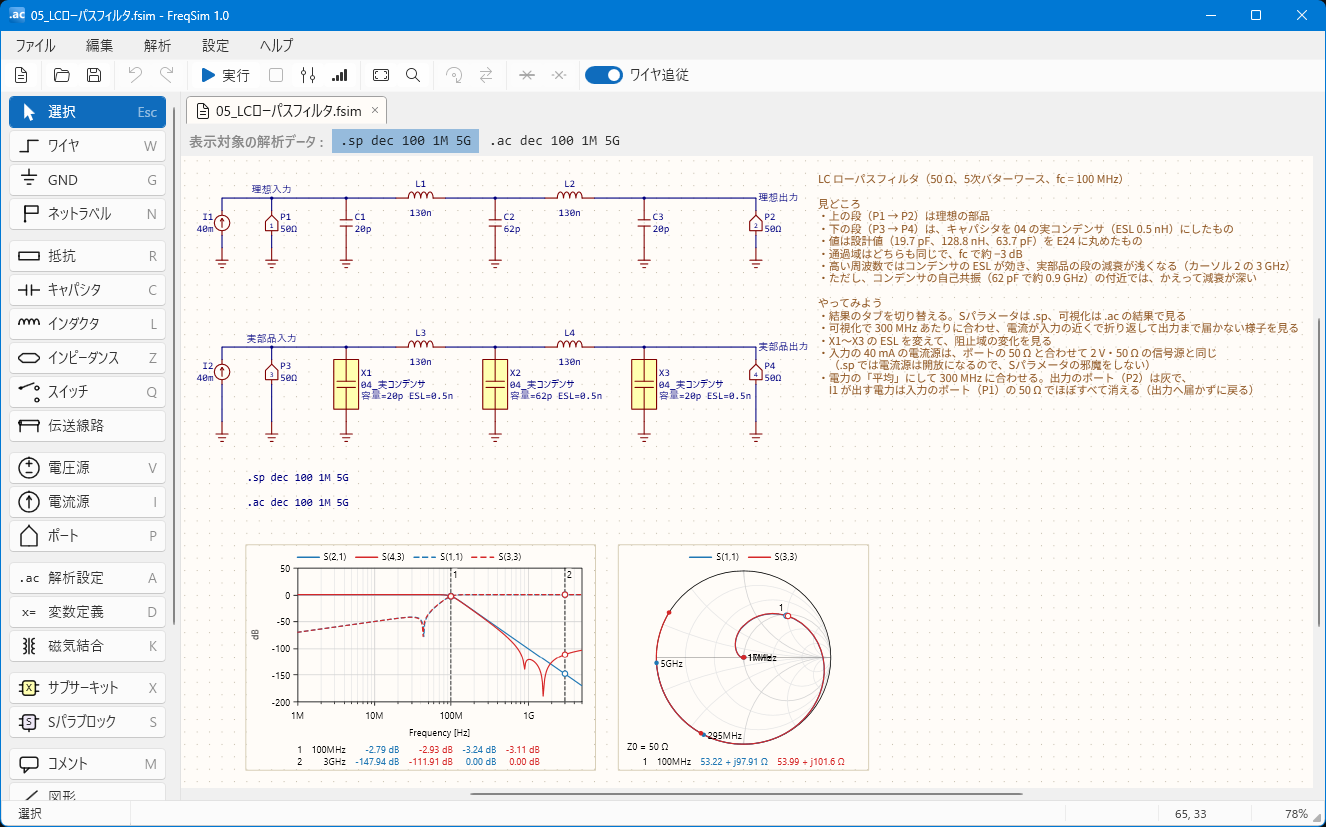
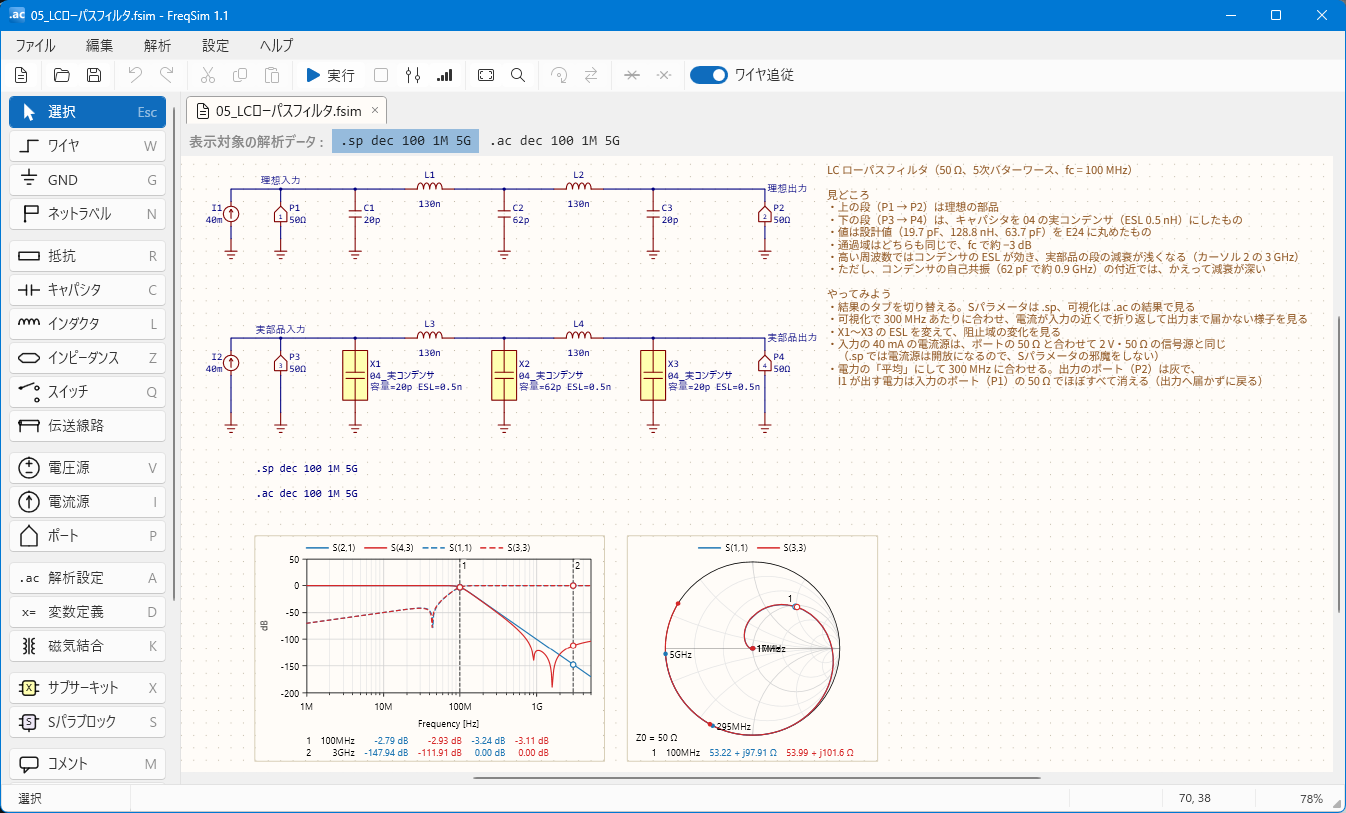
FreqSim 1.1 に合わせてヘルプ・スクリーンショット・特長を更新
- ヘルプを 1.1 版に差し替え
- スクリーンショットを 1.1 で撮り直したものに差し替え
- 配布ページの「特長」にパラメータスイープ（.step）を追加

diff --git a/software/freqsim/help/index.html b/software/freqsim/help/index.html
@@ -451,8 +451,8 @@
           <rect class="fig-pane" x="120.5" y="56.5" width="599" height="28" />
           <text x="132" y="71">文書タブ</text>
           <rect class="fig-optional" x="124" y="88" width="432" height="22" />
-          <text x="134" y="99">表示対象の解析データ</text>
-          <text class="fig-small" x="286" y="99">結果が2つ以上のときだけ</text>
+          <text x="134" y="99">表示対象の解析データ・ステップ</text>
+          <text class="fig-small" x="358" y="99">結果が2つ以上か .step のときだけ</text>
           <rect class="fig-optional" x="124" y="114" width="432" height="30" />
           <text x="134" y="129">可視化バー</text>
           <text class="fig-small" x="214" y="129">可視化の間だけ</text>
@@ -483,14 +483,14 @@
           <tr><td>メニューとツールバー</td><td>ファイル・編集・解析・設定・ヘルプ。ツールバーの各ボタンは、マウスを載せるとの説明が表示されます。</td></tr>
           <tr><td>部品パレット</td><td>置く部品を選びます。右端の英字はショートカットキーです。伝送線路と図形は、押してから種類を選びます。</td></tr>
           <tr><td>文書タブ</td><td>開いている回路図。未保存なら名前の先頭に * が付きます。ドラッグで並べ替えられます。</td></tr>
-          <tr><td>表示対象の解析データ</td><td><code>.ac</code>か<code>.sp</code>による解析の結果が2つ以上あるときだけ出ます。グラフ・書き出し・可視化に使う結果を選びます。</td></tr>
+          <tr><td>表示対象の解析データ</td><td><code>.ac</code>か<code>.sp</code>による解析の結果が2つ以上あるときだけ出ます。グラフ・書き出し・可視化に使う結果を選びます。<code>.step</code> で振った結果では、隣に今のステップを選ぶ欄と「凡例に表示」が出ます（<a href="#step">パラメータスイープ</a>）。</td></tr>
           <tr><td>回路図</td><td>部品とグラフを置く部分です。</td></tr>
           <tr><td>スクロールバー</td><td>回路図の右と下にあります。つまみの位置と大きさで、回路図全体のどこをどれだけ見ているかが分かります。つまみをドラッグするか、矢印や溝をクリックすると、表示範囲が動きます。回路図の端から画面の半分まで、外側へも送れます。バーの上でホイールを回すと、そのバーの向きに動きます。何も置いていない回路図では動きません。</td></tr>
           <tr><td>検索バー</td><td><kbd>Ctrl</kbd>+<kbd>F</kbd> で回路図の隅（最初は右上）に重ねて出ます（<a href="#search">回路図の検索</a>）。</td></tr>
           <tr><td>可視化バー</td><td>回路の可視化をしている間だけ出ます（<a href="#visualization">回路の可視化</a>）。</td></tr>
           <tr><td>端子ペイン</td><td>サブサーキット回路図のときだけ出ます。端子の順序と辺、パラメータ、使う側の箱の見た目（シンボルの図形・端子名）を決めます（<a href="#subcircuits">サブサーキット</a>）。</td></tr>
           <tr><td>診断</td><td>エラーと警告があるときだけ出ます。行をダブルクリックすると、該当する部品へ移動します（<a href="#diagnostics">診断</a>）。</td></tr>
-          <tr><td>ステータスバー</td><td>今のツール、メッセージ、「結果が古い（再実行してください）」、マウスの下にある要素、グリッド座標、表示の倍率。</td></tr>
+          <tr><td>ステータスバー</td><td>今のツール、メッセージ、「結果が古い（再実行してください）」、マウスの下にある要素、グリッド座標、表示の倍率。倍率をクリックすると、数で打ち込めます（例: <code>150</code>）。<kbd>Enter</kbd> で確定、<kbd>Esc</kbd> で取り消しです。画面の中央を中心に拡大縮小します。打ちかけのまま回路図をクリックしたときは、クリックした所を中心にします。12.5%〜800% の外は範囲に丸めます。</td></tr>
         </tbody>
       </table>
 
@@ -510,7 +510,7 @@
           <tr><td>ダブルクリック</td><td>部品はプロパティ、ワイヤはそのノードのネットラベル（<a href="#wire-label">ワイヤからノードに名前を付ける</a>）、解析設定と変数定義は設定のウィンドウ、グラフは「グラフ設定」を開きます。</td></tr>
           <tr><td>右クリック</td><td>メニュー。部品などを置いている途中なら、それを取り消します（下を参照）。</td></tr>
           <tr><td>右ドラッグ、中ボタンのドラッグ</td><td>表示範囲を移動します。</td></tr>
-          <tr><td>ホイール</td><td>マウスの下を中心に拡大縮小（12.5%〜800%）。グラフの上でも回路図全体が拡大縮小します。スクロールバーの上では、そのバーの向きに表示を動かします。</td></tr>
+          <tr><td>ホイール</td><td>マウスの下を中心に拡大縮小（12.5%〜800%）。倍率を数で指定するには、ステータスバーの倍率をクリックします。グラフの上でも回路図全体が拡大縮小します。スクロールバーの上では、そのバーの向きに表示を動かします。</td></tr>
           <tr><td>横ホイール</td><td>表示を左右に動かします（チルトホイール・親指ホイール）。</td></tr>
           <tr><td>図形などのつまみのドラッグ</td><td>グラフや図形の大きさを変えます。</td></tr>
           <tr><td>ドラッグ中に回路図の端へ</td><td>移動・複製・範囲選択・つまみのドラッグで、マウスを回路図の端まで持っていくと、表示範囲がその向きへ動き続けます。端から外へ離すほど速くなり、内側へ戻すと止まります。</td></tr>
@@ -1051,6 +1051,7 @@
           <tr><td><code>.sp</code></td><td><code>.sp dec 100 1M 1G</code></td><td>Sパラメータ解析。書き方は <code>.ac</code> と同じ。回路図にポートが1つ以上要る。後ろに <code>bal(1,2)</code> などでポートの割り当てを書ける（<a href="#mixed-mode">ミックスドモードSパラメータ</a>）</td></tr>
           <tr><td><code>.param</code></td><td><code>.param Lp=1u Cp={1/((2*pi*10.7M)^2*Lp)}</code></td><td>変数。式も書ける</td></tr>
           <tr><td><code>.tune</code></td><td><code>.tune Rload=50</code></td><td>チューニングで動かす変数（<a href="#tuning">チューニング</a>）</td></tr>
+          <tr><td><code>.step</code></td><td><code>.step Rload list 25 50 100</code></td><td>パラメータスイープ。<code>.tune</code> の変数を振って、有効な解析を全部繰り返す（<a href="#step">パラメータスイープ</a>）</td></tr>
         </tbody>
       </table>
 
@@ -1082,12 +1083,12 @@
         <li>
           <code>.tune</code> の値は実数の定数です。複素数をチューニング対象にしたいときは、実部と虚部や、絶対値と位相を別々に定義して、<code>.param</code> で組み合わせます（<code>.tune XRe=10 XIm=5</code> と <code>.param X={XRe+j*XIm}</code>）。
         </li>
-        <li>サブサーキット回路図には <code>.param</code> だけが書けます（<code>.ac</code>・<code>.sp</code>・<code>.tune</code> は書けません）。</li>
+        <li>サブサーキット回路図には <code>.param</code> だけが書けます（<code>.ac</code>・<code>.sp</code>・<code>.tune</code>・<code>.step</code> は書けません）。</li>
       </ul>
 
       <h3 id="directive-dialog">ディレクティブの設定ウィンドウ</h3>
       <ul>
-        <li>タブは「解析設定」と「変数定義」があります。</li>
+        <li>タブは「解析設定」「変数定義」「パラメータスイープ」があります（<a href="#step">パラメータスイープ</a>）。</li>
         <li>「有効」を OFF にすると、その解析設定・変数定義は解析に使われません。ディレクティブ本文の先頭に <code>*</code> を付けるのと同じです。</li>
         <li><code>;</code> から行末まではコメントとして扱いますが、フォームを触って本文が組み直されると、そのコメントは消えます。</li>
         <li>
@@ -1101,13 +1102,53 @@
       <h3 id="running">解析の実行</h3>
       <ul>
         <li><kbd>F5</kbd>、ツールバーの「実行」、「解析」→「実行」で解析します。実行中にもう一度 <kbd>F5</kbd> を押すと中止します。</li>
-        <li>有効な解析設定をすべて実行します。結果が2つ以上あるときは、画面上部の「表示対象の解析データ」で切り替えできます（解析設定のディレクティブが表示されます）。</li>
+        <li>
+          有効な解析設定をすべて実行します。結果が2つ以上あるときは、画面上部の「表示対象の解析データ」で切り替えできます（解析設定のディレクティブが表示されます）。
+          <code>.step</code> があるときは、その隣に今のステップを選ぶ欄が出ます（<a href="#step">パラメータスイープ</a>）。
+        </li>
         <li>
           実行した後に、部品・ワイヤ・ディレクティブを変えると（接続を変えずに位置を動かしただけでも）、ステータスバーに「結果が古い（再実行してください）」と出ます。
           参照しているファイルが書き換わったときも出ます。グラフ・コメント・図形を変えても出ません。
         </li>
         <li>サブサーキット回路図は、それだけでは解析できません（動作テスト用の回路を<a href="#testbench">テストベンチ</a>で作れます）。</li>
         <li>解析結果のデータ量が大きくなりそうなとき（目安 256 MiB）は、実行する前に確認します。1 GiB を超える可能性のある解析は実行しません。</li>
+      </ul>
+
+      <h3 id="step">パラメータスイープ</h3>
+      <p>
+        <code>.tune</code> で宣言した変数の値を変えながら、有効な解析（<code>.ac</code>・<code>.sp</code>）を全部繰り返し、結果をグラフに重ねて描きます。
+        設定ウィンドウの「パラメータスイープ」タブで、振る変数と値を選びます。
+      </p>
+      <table>
+        <thead>
+          <tr><th>例</th><th>意味</th></tr>
+        </thead>
+        <tbody>
+          <tr><td><code>.step Rload list 25 50 100</code></td><td>Rload を 25・50・100 にして3回解く</td></tr>
+          <tr><td><code>.step Rload lin 5 10 50</code></td><td>10〜50 を、全体で 5 個（10, 20, 30, 40, 50）</td></tr>
+          <tr><td><code>.step Cp dec 3 1n 100n</code></td><td>1n〜100n を、10 倍ごとに 3 個（全部で 7 個）</td></tr>
+        </tbody>
+      </table>
+      <ul>
+        <li>点数の意味と数値の書き方は <a href="#sweep">周波数の指定</a>と同じです。式や変数は使えません。</li>
+        <li>振れるのは <code>.tune</code> の変数だけです。素子の値を振るときは、素子を右クリック →「チューニング対象にする」で <code>.tune</code> の変数にしてから振ります。</li>
+        <li>値は小さい順に並べ替えて解きます。同じ値が2つあるとエラーです。<code>lin</code> と <code>list</code> は 0 や負の値も振れます。<code>dec</code> と <code>oct</code> は正の値だけで、終了は開始より大きくします。</li>
+        <li>有効な <code>.step</code> は1つまで、ステップは 20 個までです。振る変数が回路のどこからも使われていないと、警告が出ます（どのステップも同じ結果になります）。</li>
+        <li>
+          グラフには、トレースごとにステップの数だけ曲線が描かれます。今のステップはトレースの色で、ほかのステップは淡い色で描きます。
+          凡例の下に値の行が出ます（今のステップの値は太字です）。値の行は、ステップの欄の隣の「凡例に表示」をOFFにすると消えます（画像の書き出しにも効き、次に起動したときも使われます）。
+          軸の自動の範囲は全ステップの曲線から決めます。
+        </li>
+        <li>
+          今のステップは、「表示対象の解析データ」の隣の欄で選びます。▲▼ のボタンか <kbd>PageUp</kbd>（大きい値へ）/ <kbd>PageDown</kbd>（小さい値へ）で送れます。
+          結果タブを切り替えても、選んだステップはそのままです。解析し直しても、同じ値のステップがあれば選んだままです。
+        </li>
+        <li>カーソルの表・回路の可視化・スイッチのレバーは、今のステップの結果です。カーソルの表では、周波数の右に今のステップ（<code>Rload=50</code> など）が出ます。</li>
+        <li>チューニングでは、振っている変数のつまみは止まります。ほかのつまみを動かすと、全ステップを解き直します。</li>
+        <li>グラフの CSV・画像は全ステップを書き出します。CSV の列名は <code>V(out) [Rload=50]</code> の形です。生データの CSV と Touchstone は今のステップだけを書き出し、既定のファイル名にステップの番号（値の小さい順）と名前を添えます（<code>回路_raw_2_Rload=50.csv</code>）。名前で並べるとステップの順に並びます。</li>
+        <li>解析中の診断（周波数点で解けなかったなど）は、ステップをまたいで1件にまとめ、「Rload=25 など3ステップ」のように添えます。</li>
+        <li>配色が「モノクロ」のときは、淡い曲線がほかのトレースの濃さと紛れることがあります。トレースを線種で見分けてください。</li>
+        <li>FreqSim 1.0.2 以前では、<code>.step</code> のある回路図は開けますが解析できません。<code>.step</code> を無効（先頭に <code>*</code>）にすると解析できます。</li>
       </ul>
 
       <h3 id="frequency-range">外部データの周波数範囲</h3>
@@ -1323,7 +1364,8 @@
       <ul>
         <li>
           抵抗・キャパシタ・インダクタ・インピーダンスの正極は、置いたときの左端です。<kbd>Ctrl</kbd>+<kbd>R</kbd> で回すと上→右→下へ移り、<kbd>Ctrl</kbd>+<kbd>E</kbd>（左右反転）では左右が入れ替わります。
-          画面に印は無いので、その部品の電流を描いているグラフを選び、引き出し線の矢印（正極の側に出ます）で確かめます。電圧源は + の印の側、電流源は矢印の根元の側、ポートは五角形の尖った側が正極です。
+          <a href="#settings">設定</a>の「R・C・L・Z の正極を表示する」を ON にすると、正極の側のリードに短い線が出ます（既定は OFF）。
+          OFF のままでも、その部品の電流を描いているグラフを選べば、引き出し線の矢印（正極の側に出ます）で確かめられます。電圧源は + の印の側、電流源は矢印の根元の側、ポートは五角形の尖った側が正極です。
         </li>
         <li>端子や部品の電流は、どれも部品へ入る向きが正です。Sパラブロックなら <code>I(S1,1)+I(S1,2)+I(S1,ref)</code> は 0 になります。</li>
         <li><code>V(out-in)</code> は差電圧ではなく、<code>out-in</code> というノードの電圧という意味になります。差電圧を表したい場合は <code>V(out, in)</code> と書きます。</li>
@@ -1376,6 +1418,7 @@
           スミスチャートは <code>R + jX Ω</code>、極座標グラフは「大きさ ∠ 角度」で出ます。解析の周波数範囲の外は <code>out of range</code> です。
         </li>
         <li>カーソルの表は、画像の書き出しにも載ります。カーソル同士の差を表示する機能はありません。</li>
+        <li><code>.step</code> で振っているときは、今のステップの値を出し、周波数の右にそのステップ（<code>Rload=50</code> など）を添えます（<a href="#step">パラメータスイープ</a>）。</li>
       </ul>
 
       <h3 id="smith-polar">スミスチャートと極座標グラフ</h3>
@@ -1493,6 +1536,7 @@
           欄の値は有効4桁で表示します（解析には丸めない値を使います）。
         </li>
         <li>トレース式の中の変数も、つまみの値に追随します（<a href="#trace-expressions">トレース式</a>）。</li>
+        <li><code>.step</code> で振っている変数の列は止まり、つまみの代わりに「.step で振っています」と出ます。そこでホイールを回しても何も動きません。ほかのつまみを動かすと、全ステップを解き直します（<a href="#step">パラメータスイープ</a>）。</li>
         <li>ウィンドウを開いている間は、メインウィンドウの「実行」や <kbd>F5</kbd> もつまみの値で解きます。ウィンドウを閉じると、つまみの値で解いた結果は「結果が古い」になります。</li>
         <li>
           つまみの値は保存されません。残すときは「現在の値を .tune に書き戻す」を押します。動かした変数だけを、
@@ -1546,7 +1590,7 @@
           <tr><th>表示</th><th>電圧</th><th>電流</th></tr>
         </thead>
         <tbody>
-          <tr><td>瞬時値</td><td>色（負は青、正は赤）</td><td>流れる粒。位相を進めると、交流の動きが見えます</td></tr>
+          <tr><td>瞬時値</td><td>色（負は青、正は赤）</td><td>流れる粒。位相を進めると、交流の動きが見えます。縮小すると粒どうしがくっつかないように間引きます</td></tr>
           <tr><td>振幅</td><td>色の濃さ</td><td>線に沿った帯の太さ</td></tr>
         </tbody>
       </table>
@@ -1577,7 +1621,8 @@
         <li>周波数の欄は、入力したら <kbd>Enter</kbd> で確定します。</li>
         <li>瞬時値と瞬時電力では、再生ボタンで位相を進めます。「位相の速さ」と「粒の速さ」（瞬時値だけ）で、動きの速さを変えます。</li>
         <li>「最大」は、色と帯の太さの基準を、選んだ周波数の中で取るか（この周波数）、全部の周波数で取るか（全周波数）です。</li>
-        <li>「対数」にすると、最大から 60 dB 下までを濃淡で見せます。振幅では「太帯」「縁取り」も選べます。</li>
+        <li>「対数」にすると、最大から 60 dB 下までを濃淡で見せます。</li>
+        <li>「強調」をONにすると、瞬時値では電流の粒を大きく、振幅では電流の帯を太くして、見やすくします。平行なワイヤが詰まった回路図で粒や帯が迫って見えるときは、OFFにします。振幅では「縁取り」も選べます。</li>
         <li>「凡例」をONにすると、色と帯の太さが表す値の目盛りが回路図の隅（最初は右上）に出ます。目盛りはドラッグで四隅のどこへでも移せます。離すと一番近い隅に寄ります。</li>
         <li>表示の種類・速さ・最大・対数・凡例の位置などは保存され、次に起動したときも使われます。</li>
       </ul>
@@ -1922,6 +1967,7 @@
         <li>SVG の文字は図形（輪郭）として書き出します。PNG のファイルへの保存はありません。</li>
         <li>画像の背景は既定で透明です（設定の「画像の書き出しに背景を含める」）。配色は回路図の配色に従います。</li>
         <li>CSV は UTF-8（BOM 付き）です。欠測値は <code>NaN</code> と書きます（設定で空欄にできます）。−∞ dB は −300 dB に丸めます。</li>
+        <li><code>.step</code> で振っているときは、グラフの CSV と画像は全ステップ、生データの CSV と Touchstone は今のステップだけを書き出します（<a href="#step">パラメータスイープ</a>）。</li>
       </ul>
     </section>
 
@@ -1976,6 +2022,7 @@
           <tr><td><kbd>Enter</kbd> / <kbd>F2</kbd></td><td>選んでいる1つのプロパティを開く（グラフならグラフ設定、ワイヤならそのノードのネットラベル）</td></tr>
           <tr><td><kbd>Space</kbd></td><td>画面にフィット</td></tr>
           <tr><td>カーソルキー</td><td>表示範囲の移動。<kbd>Shift</kbd> を押すと大きく動きます</td></tr>
+          <tr><td><kbd>PageUp</kbd> / <kbd>PageDown</kbd></td><td><code>.step</code> の今のステップを大きい値 / 小さい値へ送る。ステップの欄と「表示対象の解析データ」の一覧でも効きます（<a href="#step">パラメータスイープ</a>）</td></tr>
           <tr><td><kbd>Esc</kbd></td><td>途中の操作を取り消して選択に戻り、選択を解除します。可視化も終わります</td></tr>
         </tbody>
       </table>
@@ -2007,6 +2054,7 @@
           <tr><td>範囲選択で完全に囲んだものだけを選ぶ</td><td>OFF なら、枠に少しでも触れたものを選びます</td><td>OFF</td></tr>
           <tr><td>電流源を上向きで置く</td><td>電流源を、矢印が上を向いた向きで置き始めます。OFF なら下向き（電圧源と同じく正極が上）です。パレットの絵も同じ向きになります。電流源を選んだ状態で切り替えたときは、別のツールを選んでから選び直すと効きます</td><td>ON</td></tr>
           <tr><td>グリッドを表示する</td><td>背景の格子の点。OFF でもグリッドへの吸着は効きます。どちらにしても画像の書き出しには出ません</td><td>ON</td></tr>
+          <tr><td>R・C・L・Z の正極を表示する</td><td>抵抗・キャパシタ・インダクタ・インピーダンスの正極（<code>I(R1)</code> が正になる、電流が入る側）のリードに短い線を出します。画像の書き出しにも出ます</td><td>OFF</td></tr>
           <tr><td>グラフの枠を表示する</td><td>グラフをいつも枠で囲みます。画像の書き出しにも出ます</td><td>OFF</td></tr>
           <tr><td>グラフの引き出し線を表示する</td><td>グラフを選んでいる間、トレースが測っている場所へ線を引きます</td><td>ON</td></tr>
           <tr><td>引き出し線を凡例から出す</td><td>線をグラフの枠ではなく、凡例の項目から出します</td><td>ON</td></tr>

diff --git a/_software/freqsim.md b/_software/freqsim.md
@@ -17,6 +17,7 @@ image: /assets/img/freqsim/screenshot.png
 
 - **回路の可視化**：解析した結果を、選んだ周波数で回路図に重ねて表示します。電圧は色、電流は流れる粒や帯の太さ、電力は部品の色で表します。位相を進めて再生すると、交流の電圧と電流が動いて見えます。
 - **チューニング**：変数や部品の値をつまみで動かすと、その場で解き直してグラフを描き直します。
+- **パラメータスイープ**：`.step` で変数の値を変えながら解析を繰り返し、結果の曲線をグラフに重ねて描きます。
 - **S パラメータ**：ポートを置いて S パラメータを計算し、スミスチャートで見られます。差動の回路は、ミックスドモード S パラメータ（Sdd・Scc など）でも見られます。Touchstone ファイルを部品として組み込めて、結果を Touchstone に書き出すこともできます。
 - **式と測定データ**：部品の値に、複素数や周波数の式（`{1/(s*1u)}` など）を書けます。インピーダンスと電源の値には、CSV ファイルの測定データも使えます。電源の値に `V(in)` や `I(R1)` を書けば、制御電源になります。
 - **サブサーキット**：回路の一部を別のファイルにして、部品として何度でも使えます。パラメータも渡せます。
